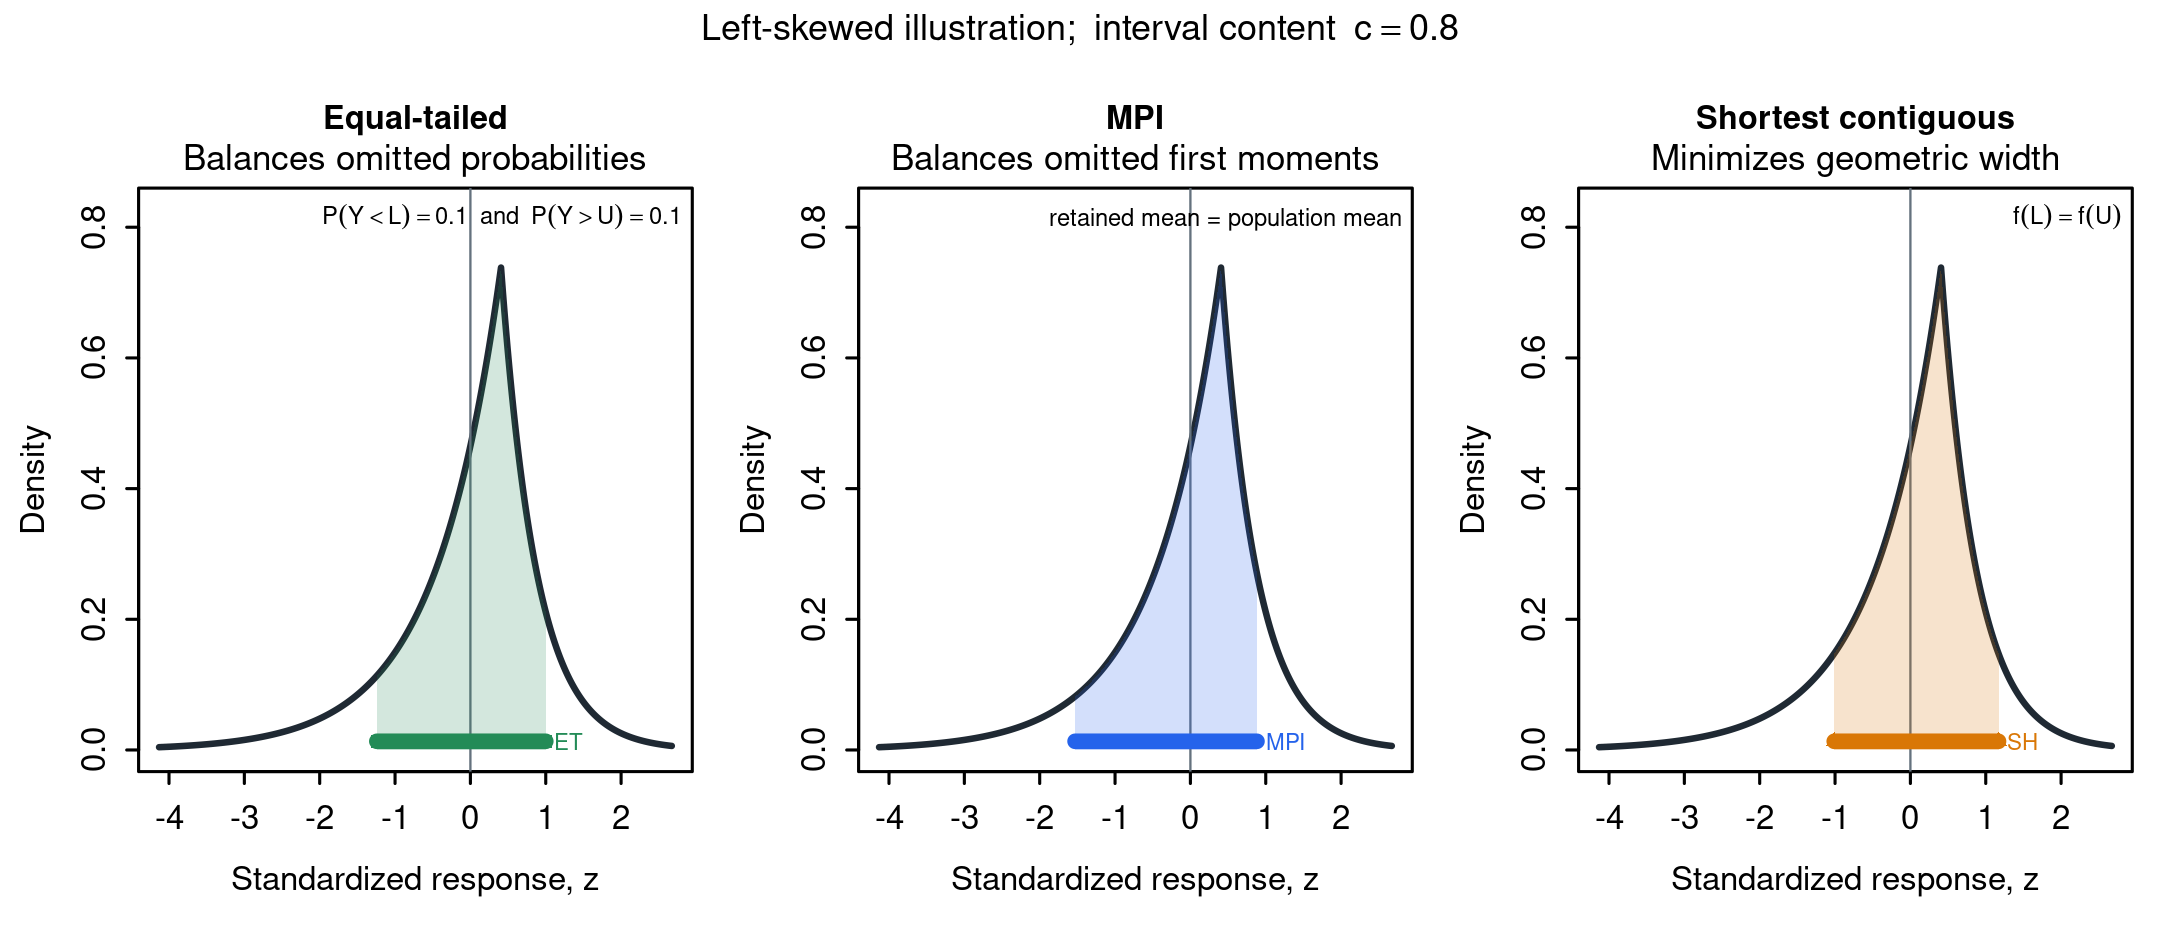
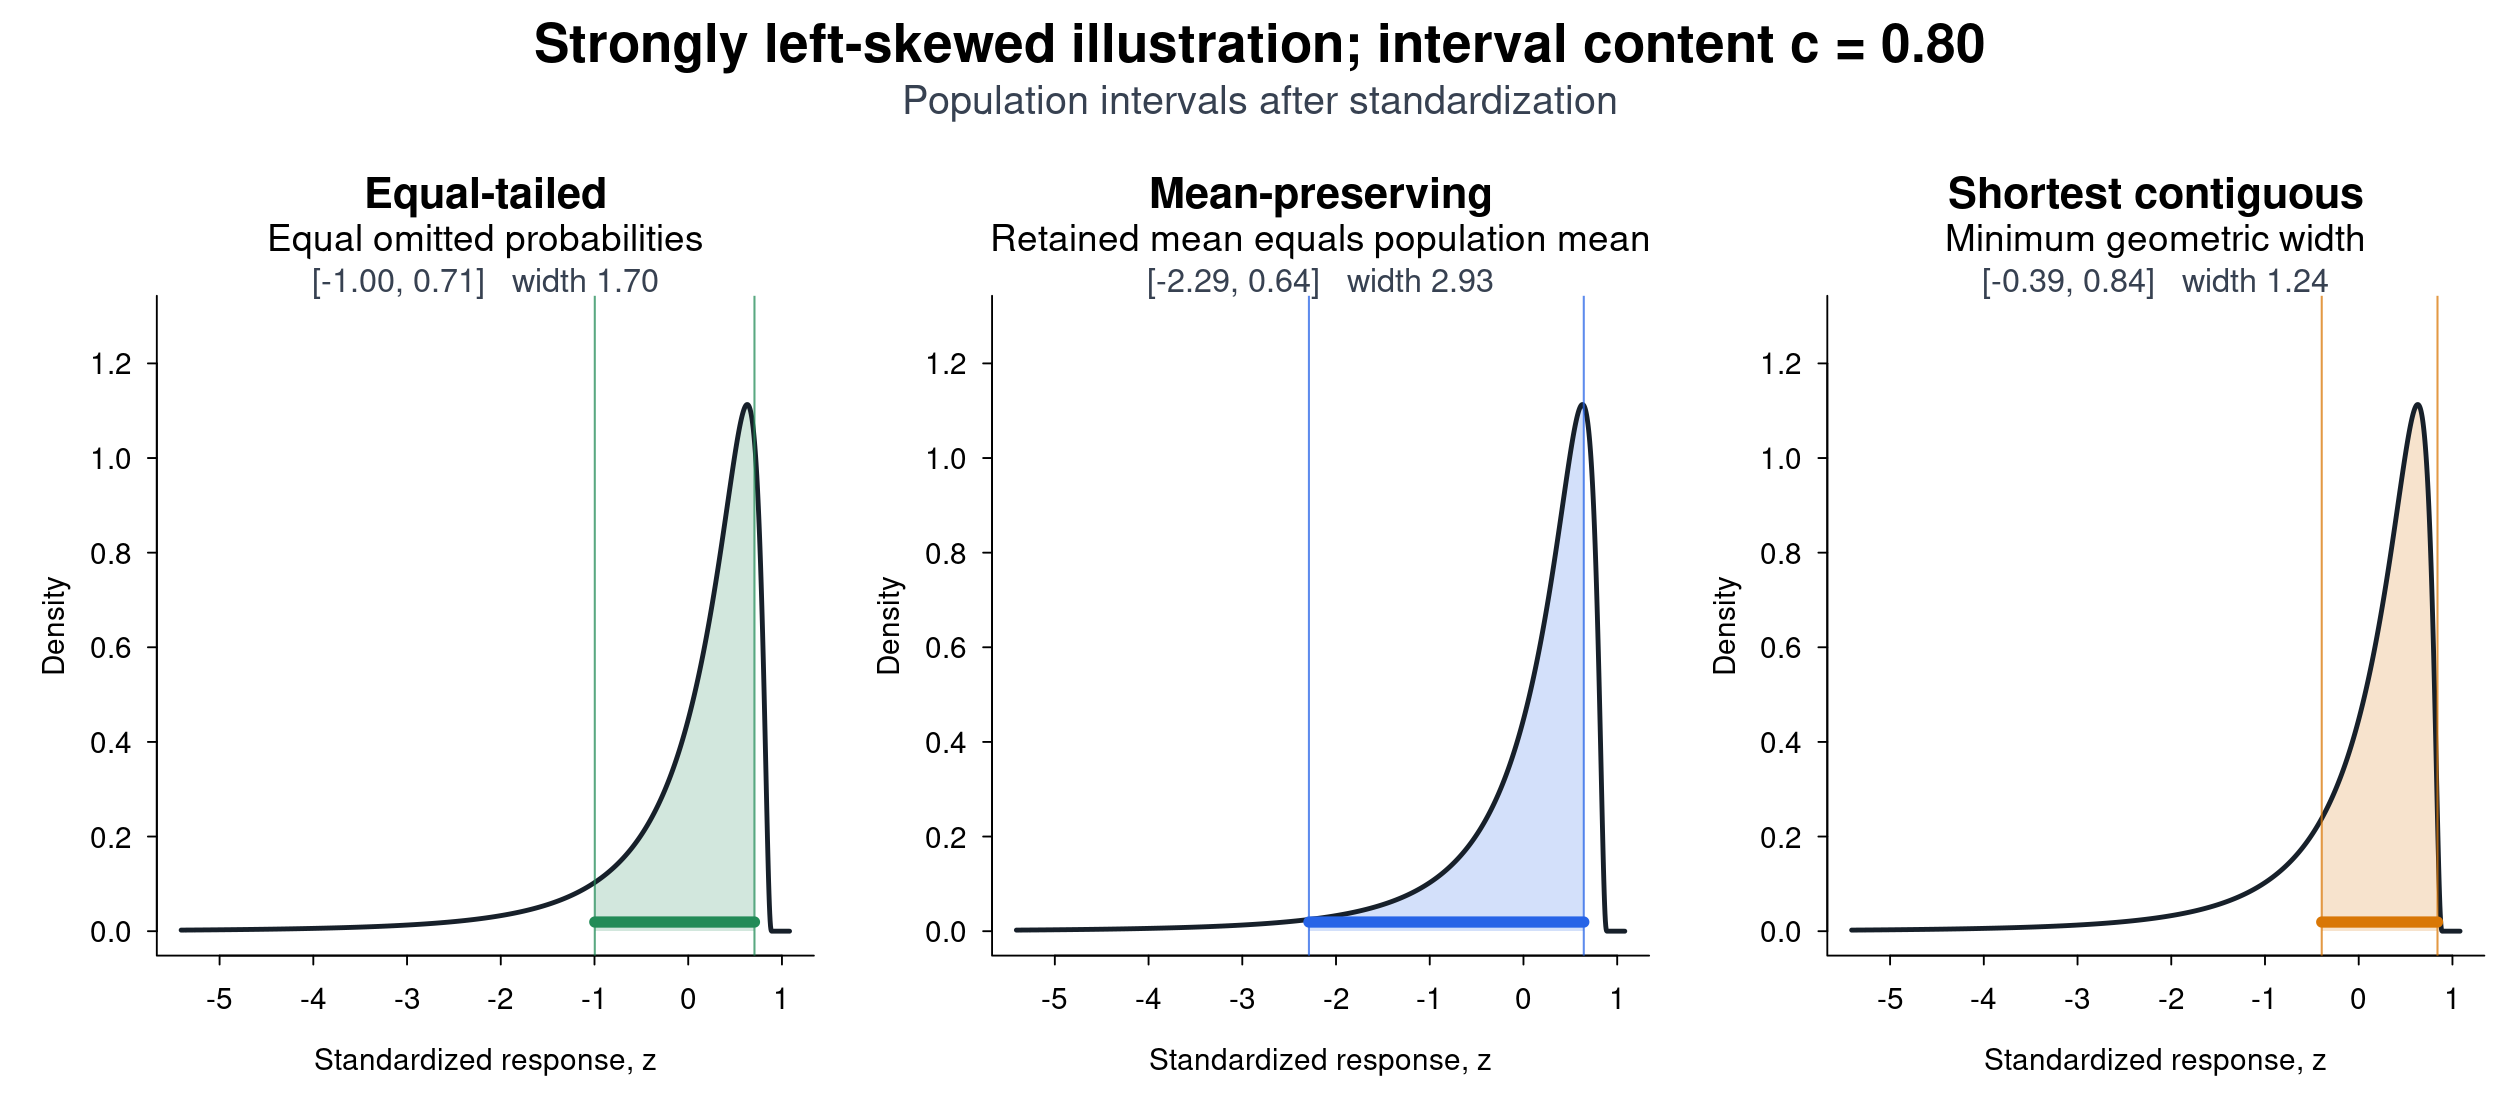
Adopt selected Figure 5.1 illustration

diff --git a/chapters/05-research-d.tex b/chapters/05-research-d.tex
@@ -112,12 +112,12 @@ distribution.
 \begin{figure}[H]
 \centering
 \includegraphics[width=\textwidth]{figures/ch05-mti/generated/fig01_three_balance_principles.png}
-\caption[Interval-selection principles under left skewness]{\textbf{Three interval-selection principles under left skewness.}
-All panels use the same continuous left-skewed population illustration with
-content \(c=0.80\), displayed after standardization. Equal-tailed (ET)
-intervals balance omitted probabilities, MPI balances omitted first
-moments, and shortest-contiguous (SH) intervals minimize geometric width.
-These panels compare the three population functionals.}
+\caption[Interval-selection principles under strong left skewness]{\textbf{Three interval-selection principles under strong left skewness.}
+All panels use content \(c=0.80\) after standardizing \(-X\), where
+\(\log X\sim\N(0,0.9^2)\). Equal-tailed (ET) intervals balance omitted
+probabilities, MPI balances omitted first moments, and shortest-contiguous
+(SH) intervals minimize geometric width. Endpoints and widths are reported in
+standardized response units.}
 \label{rqr2026:fig:three-interval-principles}
 \end{figure}
 

diff --git a/docs/figure5-1-distribution-options-20261110.md b/docs/figure5-1-distribution-options-20261110.md
@@ -2,13 +2,13 @@
 
 Date: 2026-11-10
 
-Decision state: author selection pending
+Decision state: Option C selected and integrated
 
 Generator: `scripts/generate_mti_figure5_1_candidates.R`
 
 ## Purpose
 
-The active Figure 5.1 uses one continuous left-skewed population illustration,
+The former Figure 5.1 used one continuous left-skewed population illustration,
 but the equal-tailed, mean-preserving, and shortest-contiguous intervals remain
 close enough to obscure their distinct placement rules. Five population
 alternatives were therefore evaluated at content (c=0.80). Each distribution
@@ -19,7 +19,8 @@ The review artifact is
 `build/figure5-1-candidates/figure5_1_distribution_options.pdf`. Its first page
 reports the standardized interval endpoints; the remaining pages show one
 complete Figure 5.1 alternative per distribution. The active dissertation
-figure and caption remain unchanged until the author selects an option.
+figure and caption were unchanged during comparison so that selection remained
+reversible.
 
 ## Comparison
 
@@ -45,10 +46,11 @@ Option A provides an explicit exAL illustration but separates the three
 placements less clearly. Option D is a smoother moderate alternative; Option E
 is bounded and has the weakest asymmetry in the set.
 
-The preferred default is Option B. Option C is preferable only if maximal
-visual contrast is more important than using a full-support distribution. A
-selection changes only the conceptual population illustration, its caption,
-alternative text, and the corresponding accessibility/display records. It
+The author selected Option C for its clearer visual separation. The integrated
+plot title describes only a strongly left-skewed illustration; the caption
+identifies the construction in one reproducible sentence. The change is
+limited to the conceptual population illustration, its caption, alternative
+text, and the corresponding accessibility, display, and revision records. It
 does not change the Chapter 5 theory, algorithms, simulation results, or
 application results.
 
@@ -57,7 +59,7 @@ application results.
 Run:
 
 ```bash
-Rscript scripts/generate_mti_figure5_1_candidates.R
+Rscript scripts/generate_mti_figure5_1_candidates.R --install-selected
 ```
 
 The generator uses base R population calculations and the installed

diff --git a/docs/VALIDATION.md b/docs/VALIDATION.md
@@ -10,9 +10,11 @@ capital `I` tokens are mathematical indicators, identity matrices, interval
 notation, indices, and the panel range A--I.
 
 Chapter-tier validation rebuilt the complete 184-page dissertation. The PDF is
-US Letter, PDF 1.7, and 4,139,664 bytes. The log contains ten underfull and zero
-overfull boxes and no unresolved citation or reference, duplicate label, rerun
-request, missing file, or fatal TeX error.
+US Letter, PDF 1.7, and 4,181,366 bytes, with SHA-256
[1 lines of base64/hex data omitted]
+The log contains ten underfull and zero overfull boxes and no unresolved
+citation or reference, duplicate label, rerun request, missing file, or fatal
+TeX error.
 
 `scripts/generate_mti_figure5_1_candidates.R` reproduced the six-page review
 artifact at
@@ -20,8 +22,13 @@ artifact at
 landscape, PDF 1.5, 201,278 bytes, with embedded fonts. All six pages were
 rendered and inspected. The endpoint table is legible, all density panels use
 common scales within an option, and the interval boundaries agree with the
-reported standardized endpoints. The active Figure 5.1 was intentionally not
-changed pending author selection.
+reported standardized endpoints. The author selected Option C. The generator
+reproduced the installed PNG, and the revision and import ledgers agree with
+its current SHA-256. Physical PDF page 104 was rendered and inspected after the
+final type-size adjustment; the plot, endpoint labels, caption, and following
+section heading are legible, with no clipping or collision. The selected
+illustration changes no theorem, algorithm, simulation result, or application
+result.
 
 ## 2026-11-10 final voice, exdqlm, and MTI revision release
 

diff --git a/docs/STATUS.md b/docs/STATUS.md
@@ -15,7 +15,12 @@ asymmetric AL, a reflected lognormal, a reflected Gamma, and a Beta
 distribution at content 0.80. All intervals are population calculations after
 standardization. The review record and generator are
 `docs/figure5-1-distribution-options-20261110.md` and
-`scripts/generate_mti_figure5_1_candidates.R`; selection remains pending.
+`scripts/generate_mti_figure5_1_candidates.R`. The author subsequently selected
+Option C. Figure 5.1 now uses that strongly left-skewed population illustration;
+the title remains distribution-neutral and the caption records its construction
+briefly for reproducibility. The complete 184-page build passes with ten
+underfull and zero overfull boxes; rendered physical page 104 shows no clipping,
+collision, or unreadable plot annotation.
 
 ## 2026-11-10 final voice, exdqlm, and MTI revision release-validated
 

diff --git a/docs/ASSISTANCE-LOG.md b/docs/ASSISTANCE-LOG.md
@@ -585,7 +585,7 @@ to reject third-person references to the dissertation student as well as
 first-person singular prose. The remaining dissertation-source third-person
 self-reference was replaced by first-person plural. A reproducible population
 calculation also generated five review-only alternatives for Figure 5.1 using
-exAL, AL,
-reflected-lognormal, reflected-Gamma, and Beta distributions. The active
-figure, theory, empirical results, and application results were not changed;
-the alternative is to be selected by the author.
+exAL, AL, reflected-lognormal, reflected-Gamma, and Beta distributions. After
+the author's selection, Option C replaced the former population illustration;
+the Chapter 5 theory, empirical results, and application results were not
+changed.
